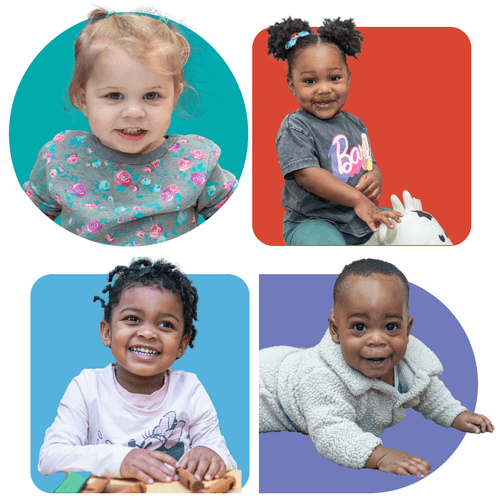
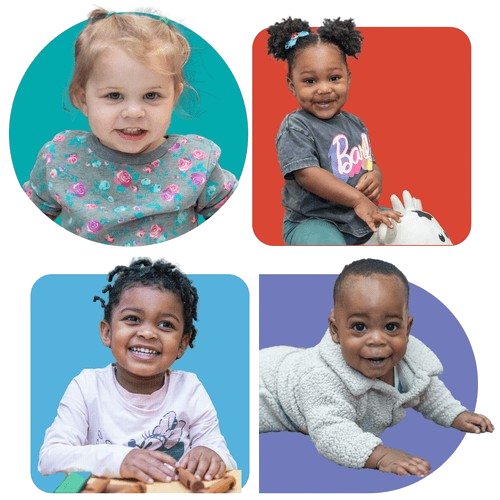
Updates

diff --git a/components/CaseStudies.tsx b/components/CaseStudies.tsx
@@ -46,7 +46,7 @@ export default function CaseStudies() {
 
                     {/* Right side - Visual */}
                     <div className="bg-gray-100 p-12 md:p-16 flex items-center justify-center">
-                        {study.image ? <img src={study.image} alt={study.title} className="w-[80%] h-full object-contain" /> : <div className="text-2xl">Image Goes Here</div>}
+                        {study.image ? <img src={study.image} alt={study.title} className="w-full h-full object-contain max-w-[350px]" /> : <div className="text-2xl">Image Goes Here</div>}
                     </div>
                   </div>
                 </div>
